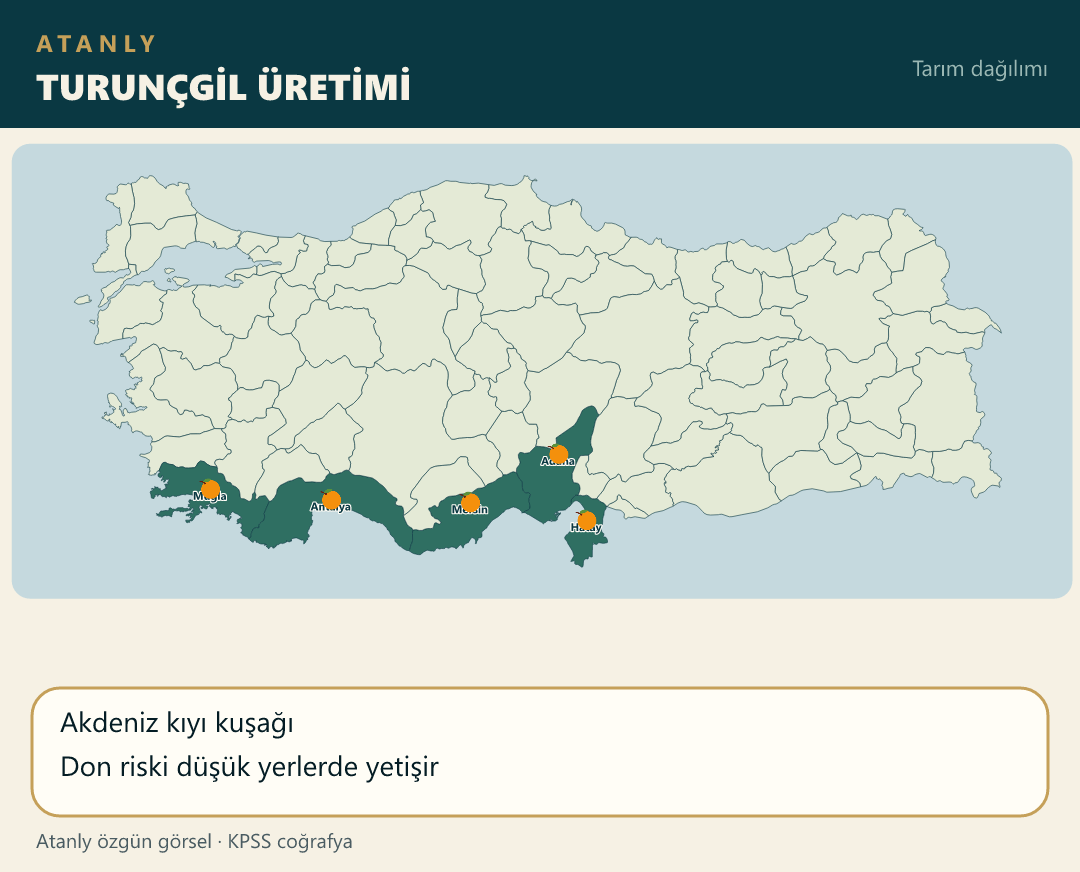
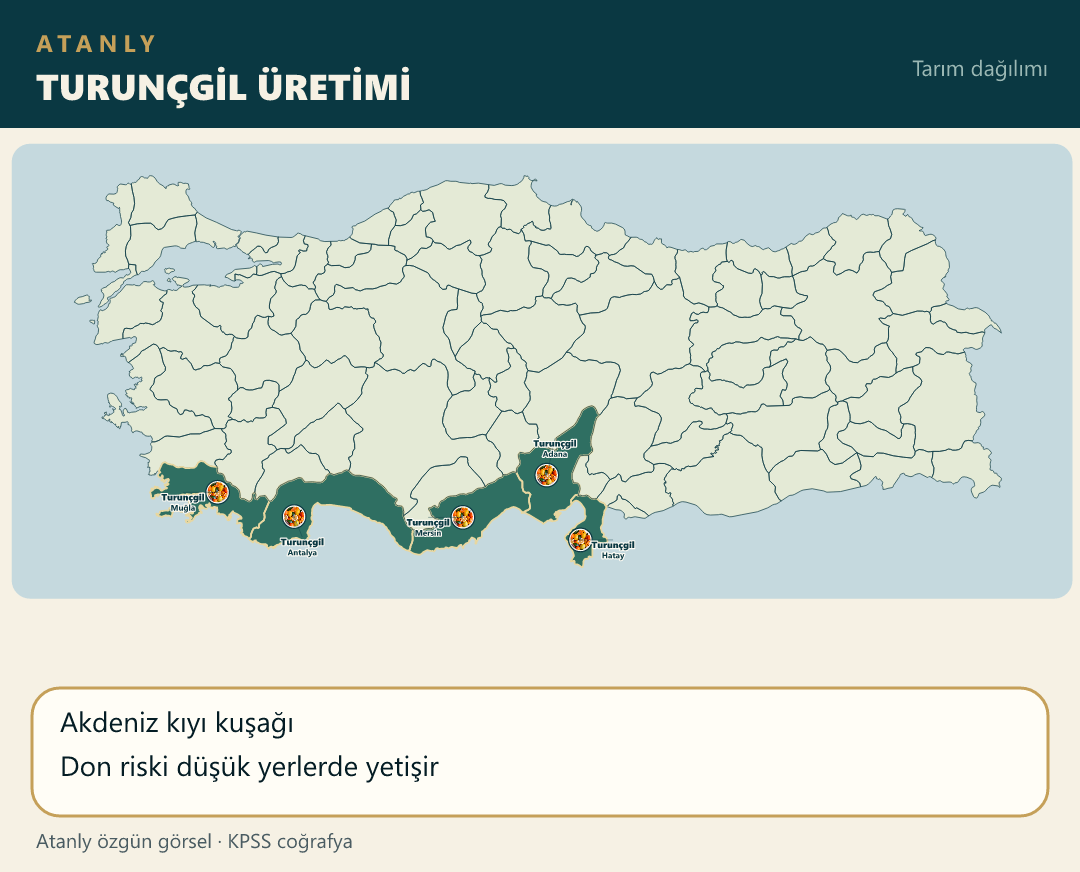
Place the citrus photo on the Mediterranean coast land-center pins.

diff --git a/scripts/build-atanly-maps.js b/scripts/build-atanly-maps.js
@@ -741,7 +741,15 @@ function main() {
                 { il: "Denizli", ilce: "Çal", ldx: -36, ldy: 4 }
             ],
             facts: ["Isparta ‘gül bahçesi’ olarak anılır", "Yağ gülü üretimi yoğundur"] },
-        { file: "turunc.png", title: "TURUNÇGİL ÜRETİMİ", iller: ["Antalya", "Mersin", "Adana", "Hatay", "Muğla"], facts: ["Akdeniz kıyı kuşağı", "Don riski düşük yerlerde yetişir"] },
+        { file: "turunc.png", title: "TURUNÇGİL ÜRETİMİ", urun: "Turunçgil",
+            noktalar: [
+                { il: "Antalya", ldx: 8, ldy: 28 },
+                { il: "Mersin", ldx: -34, ldy: 8 },
+                { il: "Adana", ldx: 8, ldy: -28 },
+                { il: "Hatay", ldx: 32, ldy: 8 },
+                { il: "Muğla", ldx: -34, ldy: 8 }
+            ],
+            facts: ["Akdeniz kıyı kuşağı", "Don riski düşük yerlerde yetişir"] },
         { file: "kenevir.jpg", title: "KENEVİR ÜRETİMİ", urun: "Kenevir",
             noktalar: [
                 { il: "Kastamonu", ilce: "Taşköprü", ldx: -34, ldy: 8 },

diff --git a/notlar/cografya-19-not.js b/notlar/cografya-19-not.js
@@ -2,7 +2,7 @@
 (function () {
     function harita(src, alt) {
         return '<div class="mt-4 overflow-hidden rounded-xl border border-blue-200 dark:border-blue-700/50 bg-white dark:bg-slate-800 p-2">' +
-            '<img src="./src/img/' + src + '?v=36" alt="' + alt + ' Haritası" class="w-full h-auto rounded-lg object-contain" loading="lazy">' +
+            '<img src="./src/img/' + src + '?v=37" alt="' + alt + ' Haritası" class="w-full h-auto rounded-lg object-contain" loading="lazy">' +
             "</div>";
     }
 

diff --git a/index.html b/index.html
@@ -117,7 +117,7 @@
     <script src="notlar/cografya-16-not.js?v=3"></script>
     <script src="notlar/cografya-17-not.js?v=3"></script>
     <script src="notlar/cografya-18-not.js?v=18"></script>
-    <script src="notlar/cografya-19-not.js?v=32"></script>
+    <script src="notlar/cografya-19-not.js?v=33"></script>
     <script src="notlar/cografya-20-not.js?v=1"></script>
     <script src="notlar/cografya-21-not.js?v=32"></script>
     <script src="notlar/cografya-22-not.js?v=1"></script>
